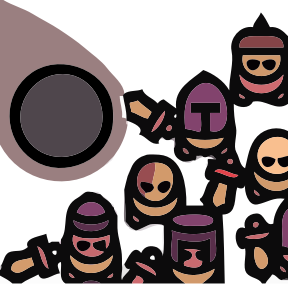
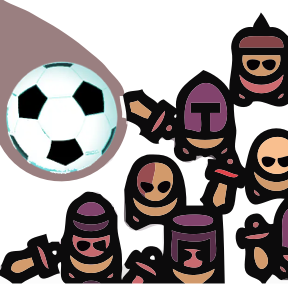
update fatal-siege

Changed region(s): [[0.0, 0.1972, 0.4062, 0.6197]]

diff --git a/frontend/App.tsx b/frontend/App.tsx
@@ -13,6 +13,8 @@ import { notificateStore } from "./store/notificateStore";
 // import DinamiteGame from "./DinamiteGame";
 import { DinamiteGameFabric } from "./DinamiteGameFabric";
 import VideoBackground from "./components/common/VideoBackground";
+import SurvivalGame from "./SurvivalGame";
+import BalonWar from "./BalonWar";
 // import { DinamiteGame } from "./games-modules/DinamiteGame/DinamiteGame";
 // import DinamiteReactPixi from "./DinamiteReactPixi";
 // import DinamiteGameV2 from "./DinamiteGameV2";
@@ -20,8 +22,8 @@ import VideoBackground from "./components/common/VideoBackground";
 const games = [
   { name: 'REACTIVE CHAIN', id:"reactive-chain", color: 'from-yellow-400 to-yellow-600', img:"./images/reactive-chain.png"},
   { name: 'DINAMITE', id:"dinamite", color: 'from-purple-400 to-purple-600', img:"./images/dinamite.png"},
-  { name: 'SURVIVAL', id:"missile-battle", color: 'from-green-400 to-green-600', img:"./images/missile-battle.svg"}, 
-  { name: 'FATAL SIEGE', id:"missile-battle", color: 'from-red-400 to-red-600', img:"./images/fatal-siege.png"}
+  { name: 'SURVIVAL', id:"survival", color: 'from-green-400 to-green-600', img:"./images/missile-battle.svg"}, 
+  { name: 'BALON SIEGE', id:"balon-siege", color: 'from-red-400 to-red-600', img:"./images/fatal-siege.png"}
   // { name: 'STICKMAN RUN', color: 'from-blue-400 to-cyan-300', svg: <path d="M17.5,4.5C17.5,5.6 16.6,6.5 15.5,6.5C14.4,6.5 13.5,5.6 13.5,4.5C13.5,3.4 14.4,2.5 15.5,2.5C16.6,2.5 17.5,3.4 17.5,4.5M15,8V16H13V8H11L8,10V12H10L11,11V16H9V21H11V18H13V21H15V18H17V8H15Z" /> },
   // { name: 'TANK BATTLE', color: 'from-yellow-400 to-yellow-600', svg: <path d="M20,10H4V17H20V10M20,19H4V21H20V19M9,11H5V15H9V11M19,7V4H9V7H19Z" /> },
   // { name: 'RACE', color: 'from-red-500 to-red-700', svg: <path d="M5,11L6.5,6.5H17.5L19,11M17.5,16A1.5,1.5 0 0,1 16,14.5A1.5,1.5 0 0,1 17.5,13A1.5,1.5 0 0,1 19,14.5A1.5,1.5 0 0,1 17.5,16M6.5,16A1.5,1.5 0 0,1 5,14.5A1.5,1.5 0 0,1 6.5,13A1.5,1.5 0 0,1 8,14.5A1.5,1.5 0 0,1 6.5,16M18.92,6C18.72,5.42 18.16,5 17.5,5H6.5C5.84,5 5.28,5.42 5.08,6L3,12V20A1,1 0 0,0 4,21H5A1,1 0 0,0 6,20V19H18V20A1,1 0 0,0 19,21H20A1,1 0 0,0 21,20V12L18.92,6Z" /> },
@@ -65,6 +67,16 @@ function App() {
           
           // <DinamiteGame/>
           <DinamiteGameFabric/>
+          
+      )}
+      {(selectedGame=="survival") && (
+          
+          <SurvivalGame/>
+          
+      )}
+      {(selectedGame=="balon-siege") && (
+          
+          <BalonWar/>
           
       )}
       {(!selectedGame) && (      

diff --git a/frontend/SurvivalGame.tsx b/frontend/SurvivalGame.tsx
@@ -1,0 +1,66 @@
+import React from 'react';
+import { motion } from 'framer-motion';
+
+const SurvivalGame: React.FC = () => {
+  return (
+    <div className="min-h-screen mt-[-100px] bg-gradient-to-br from-purple-600 to-yellow-400 flex items-center justify-center pt-16 overflow-hidden">
+      
+      <div className="absolute max-w-xl z-0 transform perspective-1000 rotate-x-12">
+          <img 
+            src="/survival-map.png" 
+            alt="Game Background"
+            className="w-full h-full object-cover"
+          />
+      </div>
+        
+      <div className="relative w-full max-w-md">
+        {/* Imagen de fondo inclinada */}
+        
+
+        <motion.div
+          className="relative p-20 z-10"
+          animate={{ 
+            y: [0, -20, 0],
+            rotate: [0, 5, -5, 0]
+          }}
+          transition={{ repeat: Infinity, duration: 6, ease: "easeInOut" }}
+        >
+          <img 
+            src="/coming-soon.png" 
+            alt="Coming Soon"
+            className="w-full h-auto"
+          />
+        </motion.div>
+        
+        <motion.div
+          className="absolute top-0 left-0 w-16 h-16 bg-yellow-300 rounded-full opacity-50"
+          animate={{ 
+            y: [0, -15, 0],
+            x: [0, 15, 0],
+            scale: [1, 1.1, 1]
+          }}
+          transition={{ repeat: Infinity, duration: 5, ease: "easeInOut" }}
+        />
+        <motion.div
+          className="absolute bottom-0 right-0 w-12 h-12 bg-pink-400 rounded-full opacity-50"
+          animate={{ 
+            y: [0, 15, 0],
+            x: [0, -15, 0],
+            scale: [1, 1.1, 1]
+          }}
+          transition={{ repeat: Infinity, duration: 4, ease: "easeInOut" }}
+        />
+        <motion.div
+          className="absolute top-1/2 -right-4 w-8 h-8 bg-purple-400 rounded-full opacity-50"
+          animate={{ 
+            x: [0, 10, 0],
+            scale: [1, 1.1, 1]
+          }}
+          transition={{ repeat: Infinity, duration: 3, ease: "easeInOut" }}
+        />
+      </div>
+    </div>
+  );
+};
+
+export default SurvivalGame;

diff --git a/frontend/BalonWar.tsx b/frontend/BalonWar.tsx
@@ -1,0 +1,66 @@
+import React from 'react';
+import { motion } from 'framer-motion';
+
+const BalonWar: React.FC = () => {
+  return (
+    <div className="min-h-screen mt-[-100px] bg-gradient-to-br from-purple-600 to-yellow-400 flex items-center justify-center pt-16 overflow-hidden">
+      
+      <div className="absolute max-w-2xl z-0 transform perspective-1000 rotate-x-12">
+          <img 
+            src="/balon-map.png" 
+            alt="Game Background"
+            className="w-full h-full object-cover"
+          />
+      </div>
+        
+      <div className="relative w-full max-w-md">
+        {/* Imagen de fondo inclinada */}
+        
+
+        <motion.div
+          className="relative p-20 z-10"
+          animate={{ 
+            y: [0, -20, 0],
+            rotate: [0, 5, -5, 0]
+          }}
+          transition={{ repeat: Infinity, duration: 6, ease: "easeInOut" }}
+        >
+          <img 
+            src="/coming-soon.png" 
+            alt="Coming Soon"
+            className="w-full h-auto"
+          />
+        </motion.div>
+        
+        <motion.div
+          className="absolute top-0 left-0 w-16 h-16 bg-yellow-300 rounded-full opacity-50"
+          animate={{ 
+            y: [0, -15, 0],
+            x: [0, 15, 0],
+            scale: [1, 1.1, 1]
+          }}
+          transition={{ repeat: Infinity, duration: 5, ease: "easeInOut" }}
+        />
+        <motion.div
+          className="absolute bottom-0 right-0 w-12 h-12 bg-pink-400 rounded-full opacity-50"
+          animate={{ 
+            y: [0, 15, 0],
+            x: [0, -15, 0],
+            scale: [1, 1.1, 1]
+          }}
+          transition={{ repeat: Infinity, duration: 4, ease: "easeInOut" }}
+        />
+        <motion.div
+          className="absolute top-1/2 -right-4 w-8 h-8 bg-purple-400 rounded-full opacity-50"
+          animate={{ 
+            x: [0, 10, 0],
+            scale: [1, 1.1, 1]
+          }}
+          transition={{ repeat: Infinity, duration: 3, ease: "easeInOut" }}
+        />
+      </div>
+    </div>
+  );
+};
+
+export default BalonWar;
